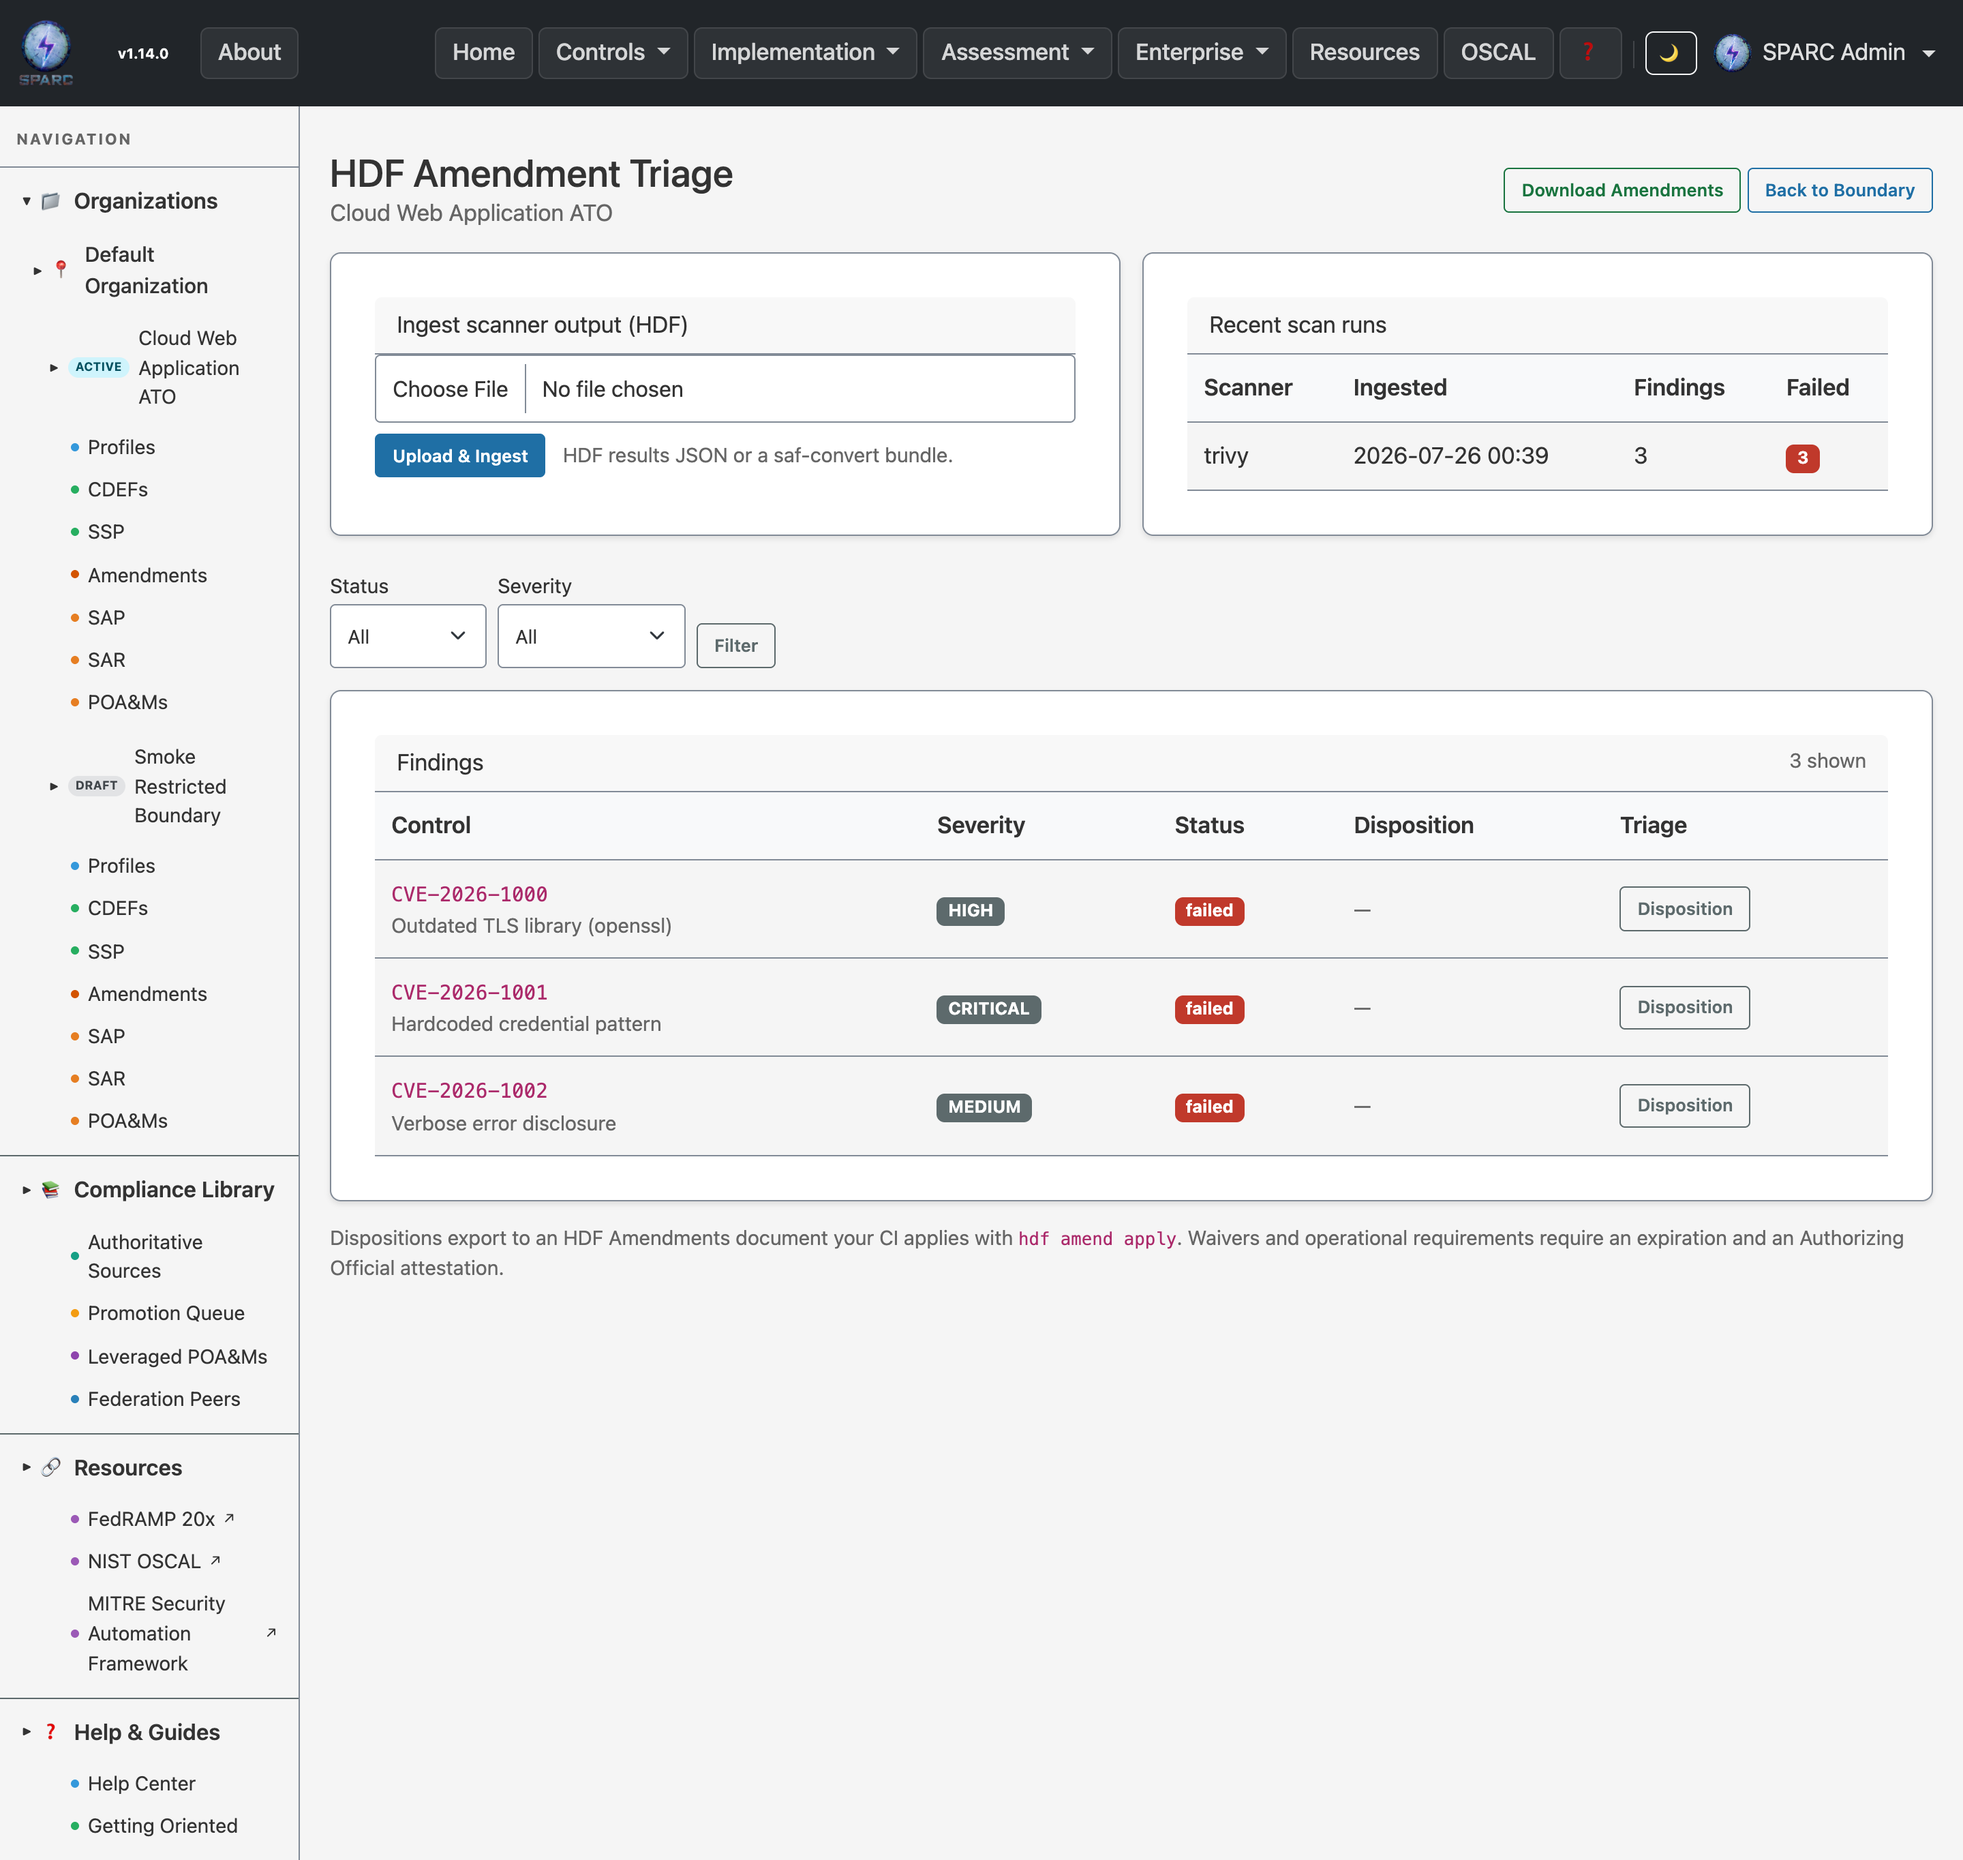
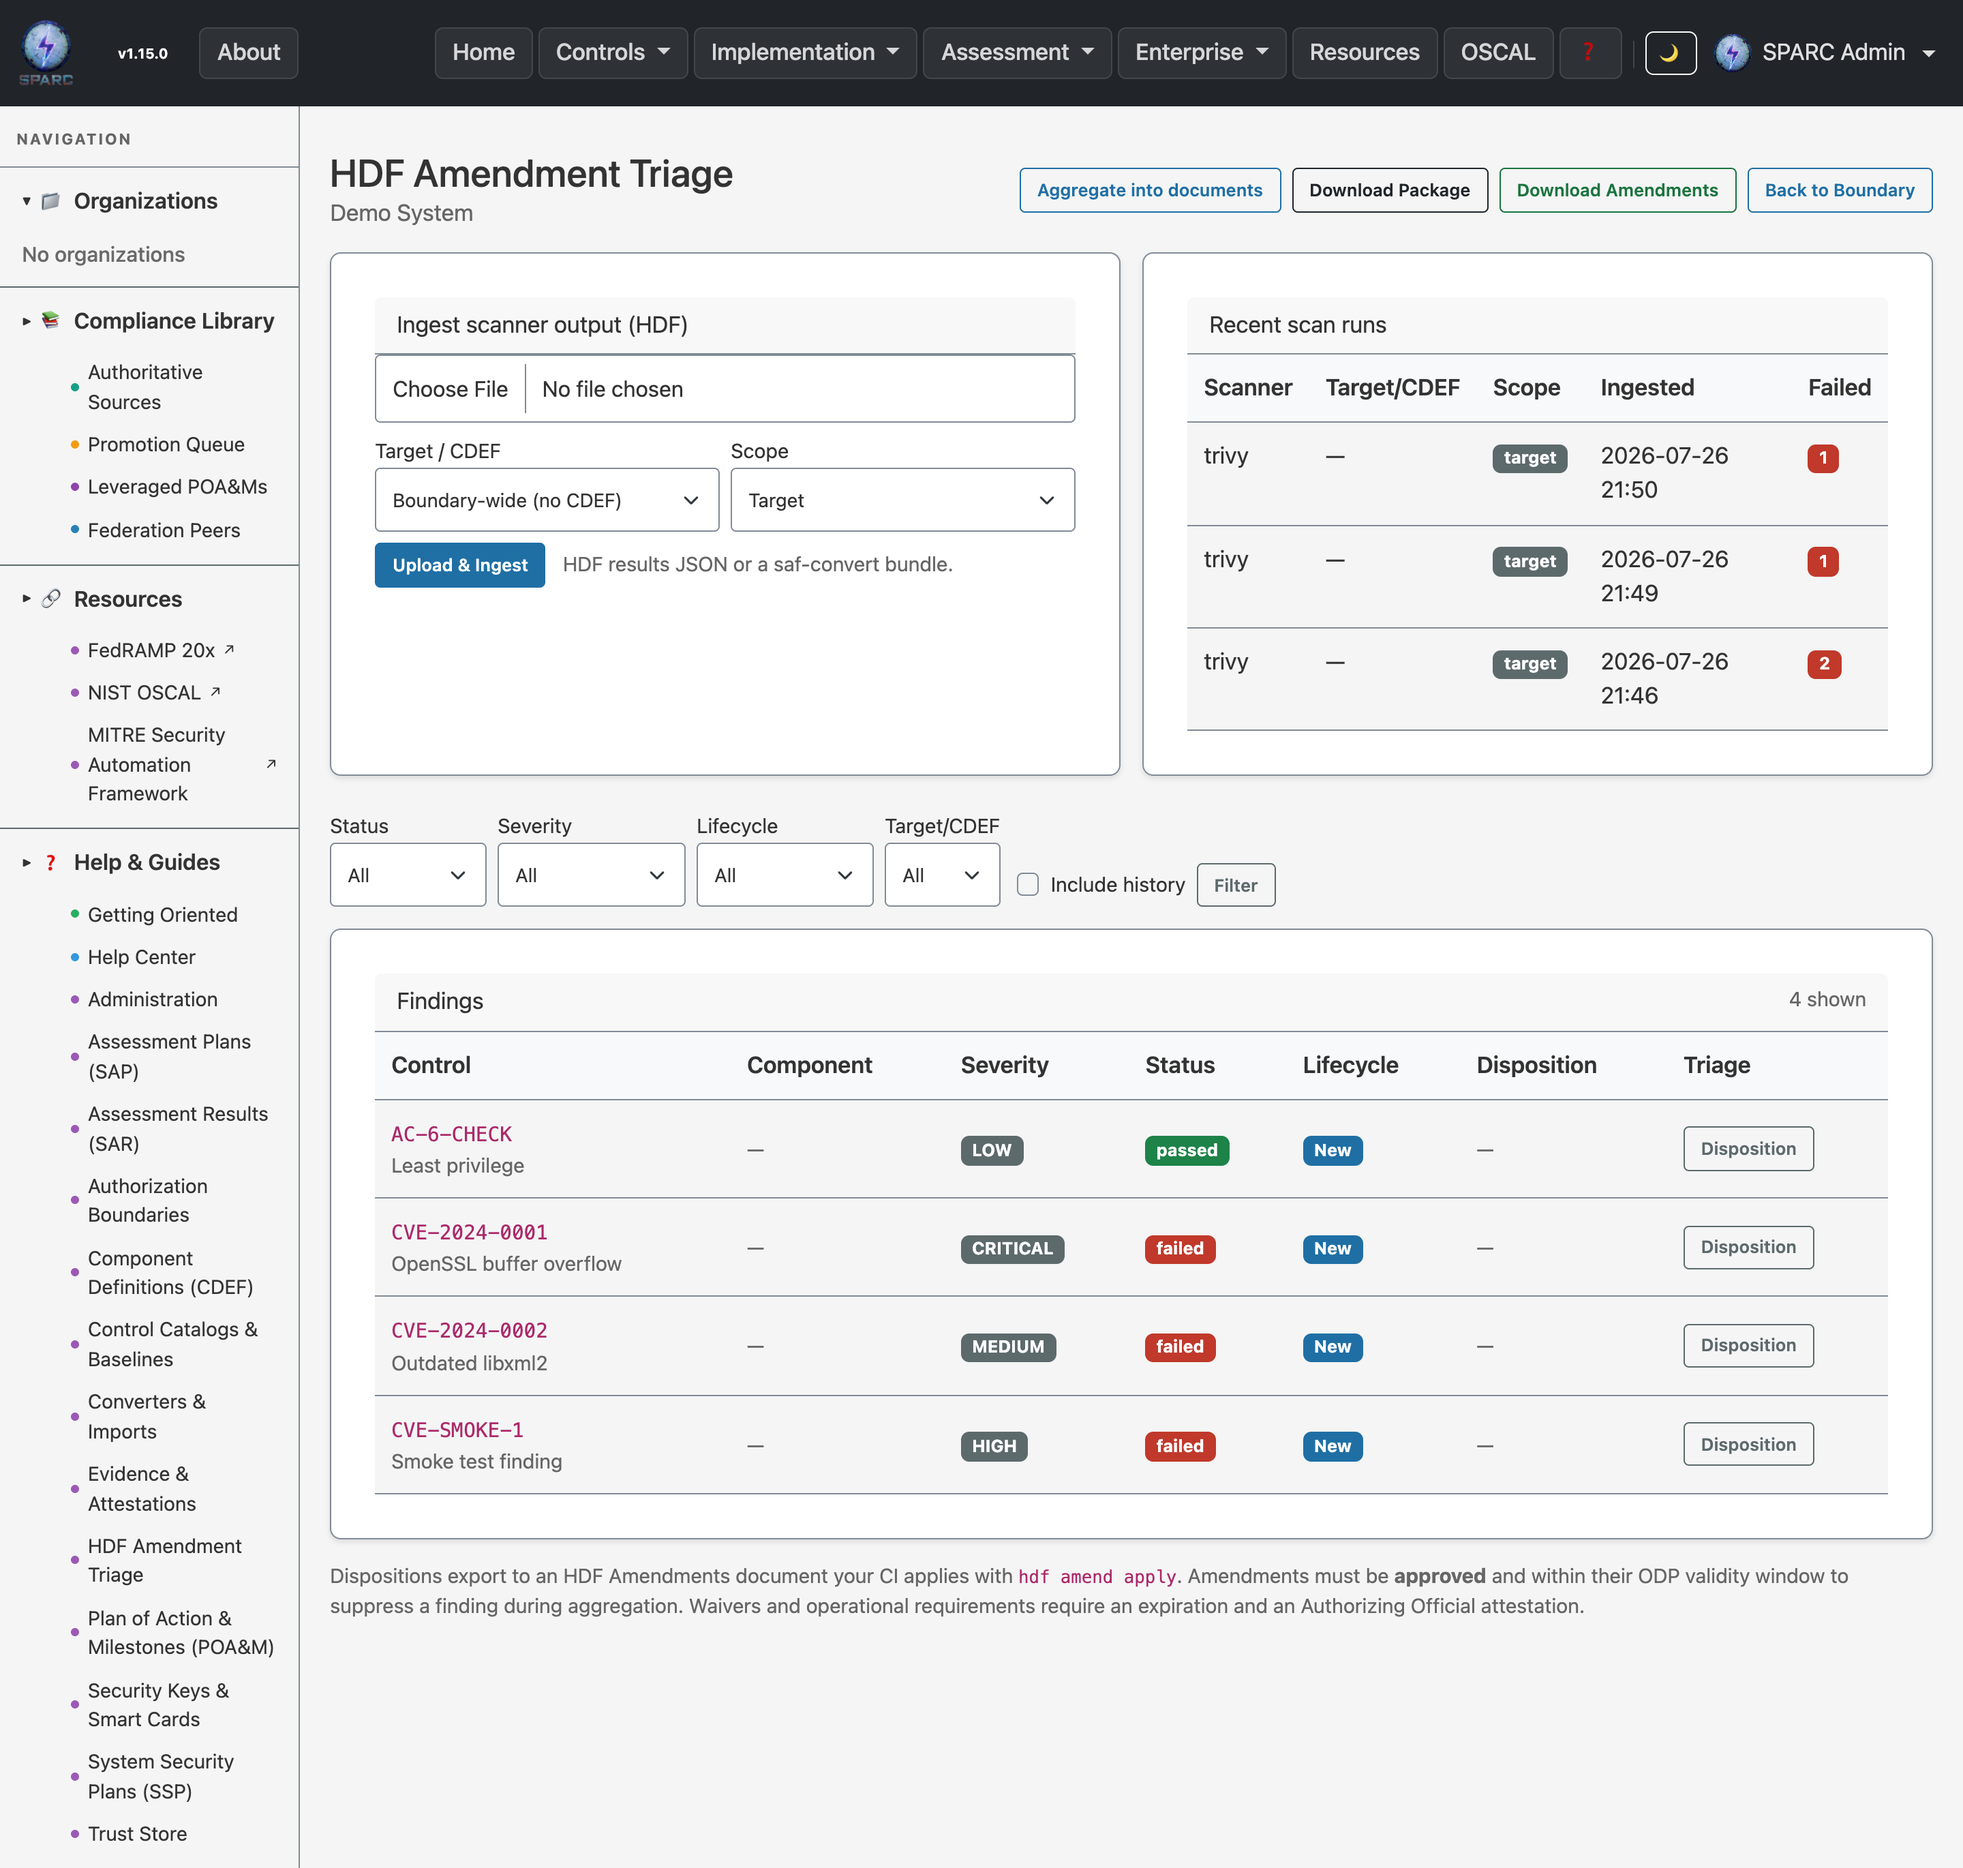
docs(#809,#811): refresh triage screenshot + capture the Remediation Timelines grid
Guides must carry a current screenshot of every screen they describe. The triage
shot predated this work, and the Remediation Timelines grid the guide points at
had none.

- capture_triage_screenshot.py: also capture Admin > Remediation Timelines to
  wiki/images/remediation-timelines.png (same real-Chrome, 2x-scale approach).
- hdf-triage.png: recaptured — now shows the Target/CDEF + Scope selectors, the
  lifecycle/target filters and Include history toggle, the Component and
  Lifecycle columns, and the Aggregate / Download Package actions.
- Guide: new grid screenshot, alt text describing the current screen, a pointer
  from the permissions note to the approval section, and a caution that the
  seeded SLA values decide suppression duration and should be set to policy.

Both images are served in-app by HelpController#images with no extra wiring.

diff --git a/tests/ui-smoke/capture_triage_screenshot.py b/tests/ui-smoke/capture_triage_screenshot.py
@@ -32,7 +32,10 @@ from helpers import first_show_href  # noqa: E402
 
 BASE_URL = os.environ.get("SPARC_SMOKE_BASE_URL", "http://localhost:3000").rstrip("/")
 SA_TOKEN = os.environ.get("SPARC_SMOKE_SA_TOKEN")
-OUT = Path(__file__).resolve().parents[2] / "wiki" / "images" / "hdf-triage.png"
+IMAGES = Path(__file__).resolve().parents[2] / "wiki" / "images"
+OUT = IMAGES / "hdf-triage.png"
+# #809 — the admin SLA grid the guide points at for amendment validity.
+OUT_TIMELINES = IMAGES / "remediation-timelines.png"
 VIEWPORT = {"width": 1440, "height": 1000}
 
 # A small, realistic set of failed findings so the screenshot shows the worklist.
@@ -91,8 +94,22 @@ def main() -> int:
         page.screenshot(path=str(OUT), full_page=True)
         kb = OUT.stat().st_size // 1024
         print(f"wrote {OUT} ({kb} KB)")
+
+        _capture_remediation_timelines(page)
         browser.close()
     return 0
+
+
+def _capture_remediation_timelines(page) -> None:
+    """#809 — Admin > Remediation Timelines, the SLA fallback the guide cites."""
+    page.goto(f"{BASE_URL}/admin/remediation_timelines", wait_until="networkidle")
+    if page.locator("#remediation-timelines-grid").count() == 0:
+        print("remediation timelines grid not reachable; skipping that shot")
+        return
+    page.wait_for_timeout(300)
+    page.screenshot(path=str(OUT_TIMELINES), full_page=True)
+    kb = OUT_TIMELINES.stat().st_size // 1024
+    print(f"wrote {OUT_TIMELINES} ({kb} KB)")
 
 
 if __name__ == "__main__":

diff --git a/wiki/User-Guide-HDF-Amendment-Triage.md b/wiki/User-Guide-HDF-Amendment-Triage.md
@@ -31,9 +31,10 @@ assessing). Reach it three ways:
 Or go straight to `…/authorization_boundaries/<your-boundary>/triage`.
 
 You need the `evidence.read` permission on the boundary to view triage, and
-`evidence.write` to ingest scans or set dispositions.
+`evidence.write` to ingest scans or set dispositions. Approving an amendment is a
+separate permission — see [Approval and validity](#approval-and-validity-809).
 
-![The HDF Amendment Triage screen: an ingest form, recent scan runs, and the findings table with per-finding disposition controls.](images/hdf-triage.png)
+![The HDF Amendment Triage screen: an ingest form with Target/CDEF and Scope selectors, a recent-scan-runs panel, status/severity/lifecycle/target filters with an Include history toggle, and the findings table showing Component, Lifecycle, and Disposition columns alongside the Aggregate and Download Package actions.](images/hdf-triage.png)
 
 ---
 
@@ -143,7 +144,11 @@ A disposition is a proposed **amendment**. It only suppresses a finding once it 
 
 Once the window lapses, the finding returns to the board as **Expired** and must
 be re-decided. Instance Admins provision the fallback table under
-**Admin → Remediation Timelines**.
+**Admin → Remediation Timelines**. The grid ships with sensible defaults — set it
+to your organization's actual remediation policy, because these values decide how
+long an amendment keeps suppressing a finding.
+
+![Admin → Remediation Timelines: a grid of remediation days with a row per profile baseline (Low, Moderate, High) and a column per NIST criticality (Critical, High, Moderate, Low, Informational, Unknown), each cell an editable day count with its own Save button.](images/remediation-timelines.png)
 
 ---
 
